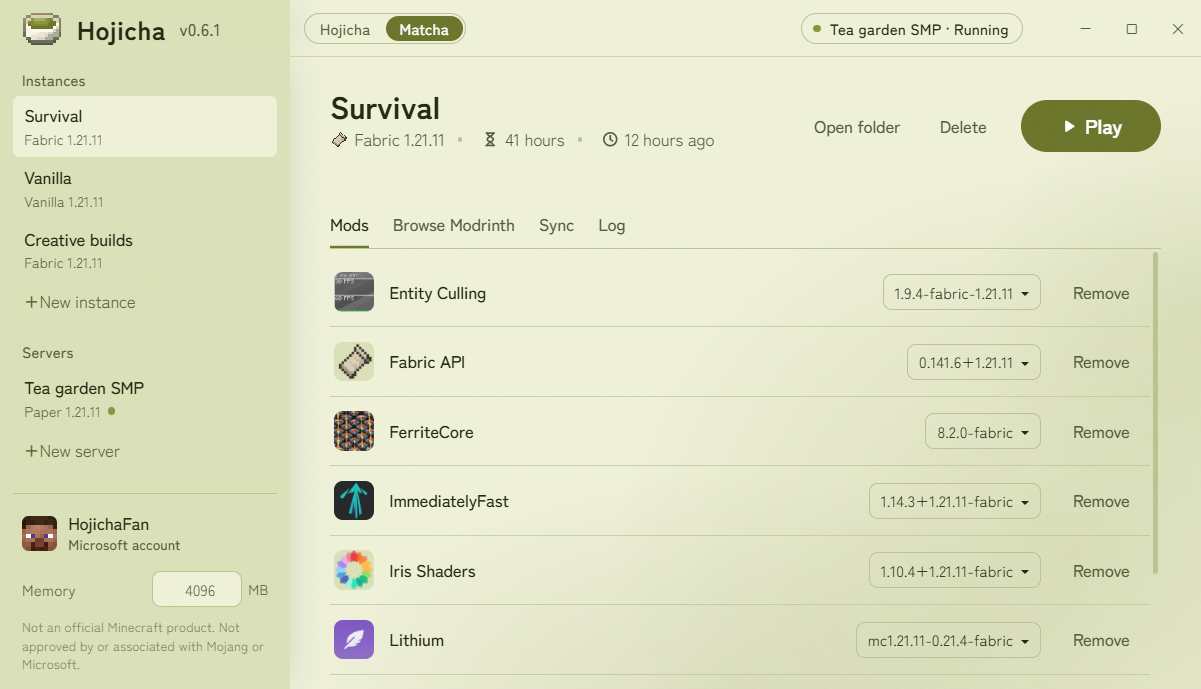
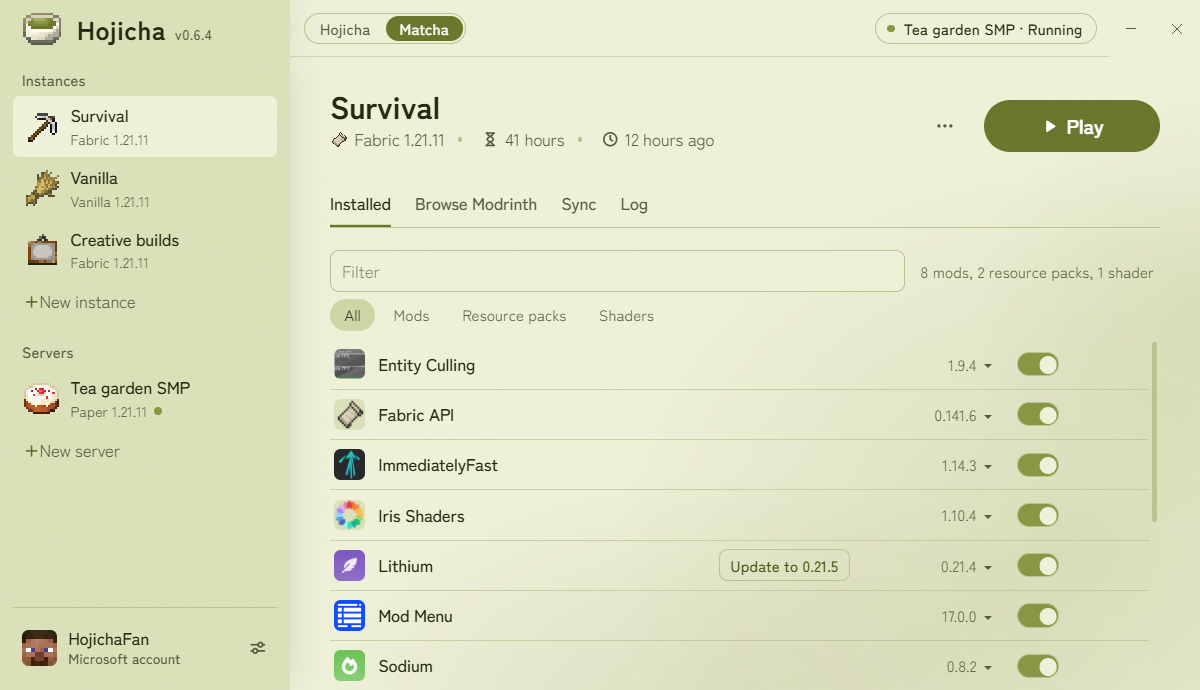
Show the version next to the name again; new screenshots and a shorter README
- The version is back beside "Hojicha" in the title bar, smaller than before and on the name's baseline
- README screenshots re-rendered from the real UI with sample data, now with the Installed tab, its kinds and
  the link icon on shared packs
- The feature list is down to the main points, each in a line or two

diff --git a/src/renderer/style.css b/src/renderer/style.css
@@ -241,6 +241,9 @@ input:focus-visible, select:focus-visible { outline: none; }
   margin-bottom: -1px;
 }
 .brand img { image-rendering: pixelated; } /* pixel-art logo: keep every pixel sharp */
+/* The name and, smaller, the version: on one baseline, so the number sits on the name's line instead of floating. */
+.brand-name { display: flex; align-items: baseline; gap: 8px; }
+.app-version { font-size: var(--text-xs); font-weight: 500; letter-spacing: 0.02em; color: var(--steam-dim); }
 /* The cup follows the theme: roasted hojicha, or a bowl of matcha. */
 :root:not([data-theme="matcha"]) .logo-matcha, :root[data-theme="matcha"] .logo-hojicha { display: none; }
 

diff --git a/src/renderer/index.html b/src/renderer/index.html
@@ -12,7 +12,7 @@
     <div class="brand">
       <img class="logo-hojicha" src="../../build/icon.png" alt="" width="40" height="40">
       <img class="logo-matcha" src="../../build/icon-matcha.png" alt="" width="40" height="40">
-      <span>Hojicha</span>
+      <span class="brand-name">Hojicha <span id="app-version" class="app-version"></span></span>
     </div>
     <div class="titlebar-main">
       <div class="theme-switch" role="radiogroup" aria-label="Theme">

diff --git a/src/renderer/app.js b/src/renderer/app.js
@@ -2559,6 +2559,7 @@ $('#srv-command-form').onsubmit = async (event) => {
 
 (async () => {
   [appSettings, appInfo] = await Promise.all([api.getSettings(), api.getAppInfo()]);
+  $('#app-version').textContent = `v${appInfo.version}`;
   await refreshAccounts();
   api.refreshProfiles().then(renderAccounts, () => {}); // new skins show up once Mojang answers
   await refreshInstances();

diff --git a/README.md b/README.md
@@ -11,41 +11,19 @@
 
 > **NOT AN OFFICIAL MINECRAFT PRODUCT. NOT APPROVED BY OR ASSOCIATED WITH MOJANG OR MICROSOFT.**
 
-![Hojicha Launcher in the dark Hojicha theme, showing a Fabric instance with its mods, play time and last played](docs/screenshot-mods.png)
+![Hojicha Launcher in the dark Hojicha theme: an instance's Installed tab with its mods, resource packs and shaders](docs/screenshot-mods.png)
 
 ## Features
 
-- **Instances**: separate game folders, vanilla or Fabric, any release or snapshot, each showing its time played
-  and when you last played it. Hojicha downloads the game, libraries, assets and the matching Java runtime from
-  Mojang itself; game files are never redistributed. The ⋯ next to Play renames an instance, changes its icon or
-  gives it its own memory.
-- **Installed**: every mod, resource pack and shader in one list, to filter or show by kind. Switch mods on and
-  off, see which have a newer version and update them one by one or all at once. Packs shared with other
-  instances carry a link icon, and removing one says where else it goes from.
-- **Modrinth browser**: search mods, resource packs and shaders filtered to the instance's version and loader.
-  One click installs the newest compatible version plus its required dependencies, and any installed mod can be
-  switched to another version.
-- **Modpacks**: New instance → Start from a modpack makes an instance from a Fabric modpack on Modrinth, on the
-  Minecraft version you pick, with everything it needs. Upload a modpack installs one from an .mrpack file.
-- **Item icons**: every instance and server gets a Minecraft item as its icon; click it to pick another.
-- **Instance syncing**: share worlds, mod settings, resource packs, shader packs, screenshots, options/keybinds and
-  the server list between instances. Everything is synced by default; switch items off per instance.
-- **Local servers**: create a Paper, Purpur or Fabric server in a couple of clicks, or add a server folder you
-  already have, and use **Start and join** to start it and jump straight in.
-- **Online play**: let friends join a local server over the internet through [playit.gg](https://playit.gg),
-  without port forwarding or changing anything on your PC or router. Public servers always check Microsoft
-  accounts and use a whitelist.
-- **Two teas**: the dark roasted **Hojicha** theme or the light whisked-green **Matcha** theme, switched from the
-  title bar.
-- **Microsoft accounts**: sign in with Microsoft's official device-code flow. Your skin's face shows next to your
-  name, and skin or name changes are picked up each time the launcher starts.
-- **Settings** (next to your account): the default memory, which Java to use (Hojicha's own, or a java.exe you
-  pick), and checking for updates.
-- **Closing safely**: closing Hojicha while a game or server is running asks first. Servers are saved and stopped;
-  a game would close without saving, so you're told before it does.
-- **Back and forward**: the mouse's back and forward buttons (or Alt+Left and Alt+Right) move between the
-  instances, servers and tabs you've visited.
-- **Updates in the launcher**: new versions download in the background and install with one click.
+- **Instances**: separate copies of the game, vanilla or Fabric, on any version, each with its own mods and worlds.
+- **Installed**: all your mods, resource packs and shaders in one list. Switch mods on or off and update them in
+  one click.
+- **Modrinth**: find and install mods, resource packs, shaders and whole modpacks, with everything they need.
+- **Syncing**: share worlds, settings and packs between instances.
+- **Servers**: make a Paper, Purpur or Fabric server and join it in one click. Friends can join over the internet
+  through [playit.gg](https://playit.gg), without port forwarding.
+- **Two teas**: a dark **Hojicha** theme and a light **Matcha** theme.
+- **Safe and private**: you sign in on Microsoft's own website, nothing is tracked, and updates install themselves.
 
 | Browse Modrinth | Online play |
 | --- | --- |
